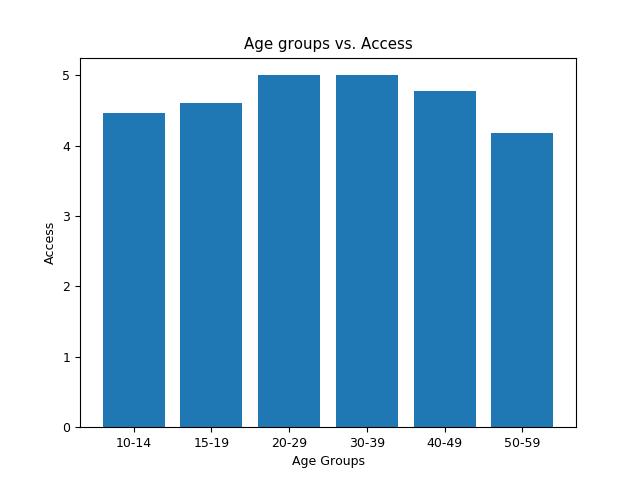
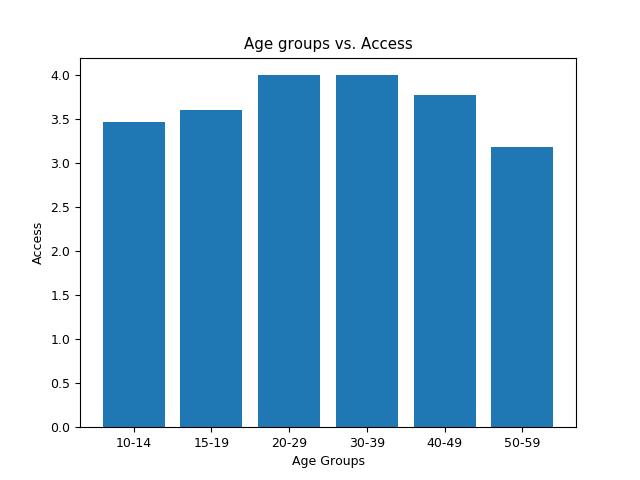
changed base number

diff --git a/get-data.py b/get-data.py
@@ -66,7 +66,7 @@ if __name__ == '__main__':
 
     plt.rcParams['font.size'] = 9
     for var, values in data.items():
-        if var=="Interest":
+        if var=="Interest" or var=="Access":
             values=[i-1 for i in values]
 
         plt.bar([f'{age_groups[i][0]}-{age_groups[i][1]-1}' for i in range(len(age_groups))], values)
